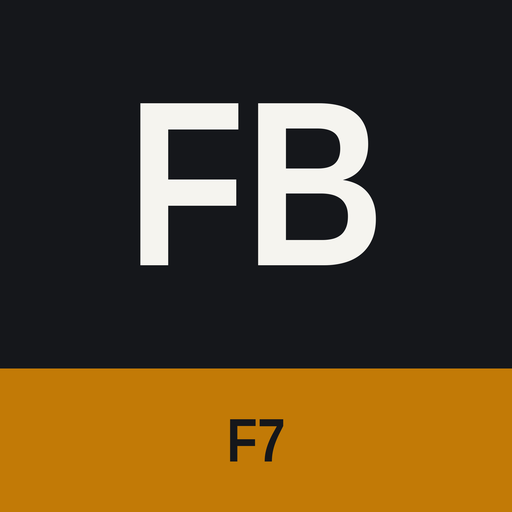
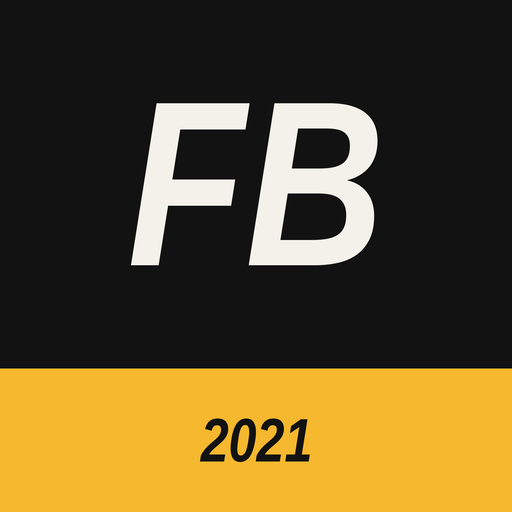
Colores oficiales: carbón, dorado cerveza y naranja fuego; titulares en cursiva
Claude-Session: https://claude.ai/code/session_01MiMiU7EyNSUYJ8L8G9NTuj

diff --git a/index.html b/index.html
@@ -8,19 +8,19 @@
 <link rel="icon" href="icon-192.png" type="image/png">
 <link rel="apple-touch-icon" href="apple-touch-icon.png">
 <link rel="manifest" href="manifest.webmanifest">
-<meta name="theme-color" content="#15171b">
+<meta name="theme-color" content="#121212">
 <meta name="apple-mobile-web-app-capable" content="yes">
 <meta name="mobile-web-app-capable" content="yes">
 <meta name="apple-mobile-web-app-title" content="Fulhambeer">
 <meta name="apple-mobile-web-app-status-bar-style" content="black">
 <link rel="preconnect" href="https://fonts.googleapis.com">
 <link rel="preconnect" href="https://fonts.gstatic.com" crossorigin>
-<link href="https://fonts.googleapis.com/css2?family=Barlow+Condensed:wght@500;600;700;800&family=Barlow:wght@400;500;600&display=swap" rel="stylesheet">
+<link href="https://fonts.googleapis.com/css2?family=Barlow+Condensed:ital,wght@0,500;0,600;0,700;0,800;1,700;1,800;1,900&family=Barlow:wght@400;500;600&display=swap" rel="stylesheet">
 <style>
 /* Matchday programme: scoreboard header, the next match first, dense tables below. Chalk paper, touchline ink, beer amber. */
 :root {
-  --paper: #f5f4ef; --card: #ffffff; --ink: #15171b; --ink-2: #555850; --ink-3: #8a8c84; --line: #e2e0d8;
-  --accent: #c27a06; --accent-soft: #fbf0da; --good: #1e7a3c; --good-soft: #e3f2e7; --bad: #b3372f; --bad-soft: #f8e4e1;
+  --paper: #f4f2ec; --card: #ffffff; --ink: #121212; --ink-2: #53504a; --ink-3: #8a867d; --line: #e3dfd4;
+  --accent: #c8860a; --accent-soft: #fcefd2; --gold: #f5b82e; --fire: #e8661c; --good: #1e7a3c; --good-soft: #e3f2e7; --bad: #b3372f; --bad-soft: #f8e4e1;
   --warn: #9a6a00; --bar: #2a78d6;
   --display: "Barlow Condensed", "Arial Narrow", "Roboto Condensed", system-ui, sans-serif;
   --body: "Barlow", system-ui, -apple-system, "Segoe UI", sans-serif;
@@ -28,8 +28,8 @@
 }
 @media (prefers-color-scheme: dark) {
   :root {
-    --paper: #121416; --card: #1b1e21; --ink: #f0efe9; --ink-2: #b9bab2; --ink-3: #85877f; --line: #2c3034;
-    --accent: #f0a42a; --accent-soft: #3a2c12; --good: #5cc27b; --good-soft: #17301f; --bad: #ef7a6f; --bad-soft: #3a1c19;
+    --paper: #0d0d0d; --card: #181818; --ink: #f3f1ea; --ink-2: #bdb8ad; --ink-3: #868176; --line: #2b2a27;
+    --accent: #f5b82e; --accent-soft: #3a2b0d; --good: #5cc27b; --good-soft: #17301f; --bad: #ef7a6f; --bad-soft: #3a1c19;
     --warn: #e0b44a; --bar: #3987e5; color-scheme: dark;
   }
 }
@@ -44,26 +44,26 @@ button, input, select, textarea { font: inherit; color: inherit; }
 section.view > *, .card > * { min-width: 0; }
 select { max-width: 100%; min-width: 0; }
 
-header.top { background: #15171b; color: #f5f4ef; }
+header.top { background: radial-gradient(120% 140% at 85% 0%, #3a1a06 0%, #121212 55%) #121212; color: #f3f1ea; border-bottom: 3px solid #f5b82e; }
 header.top .wrap { padding-top: 16px; padding-bottom: 0; display: grid; gap: 12px; }
 .brand { display: flex; align-items: flex-end; justify-content: space-between; gap: 12px; flex-wrap: wrap; }
-.brand h1 { font: 800 clamp(30px, 6vw, 44px)/0.95 var(--display); letter-spacing: 0.02em; margin: 0; text-transform: uppercase; }
-.brand h1 span { color: #f0a42a; }
+.brand h1 { font: italic 900 clamp(32px, 6.5vw, 48px)/0.95 var(--display); letter-spacing: 0.01em; margin: 0; text-transform: uppercase; }
+.brand h1 span { color: #f5b82e; text-shadow: 0 0 18px rgba(232,102,28,0.55); }
 .brand .comp { font: 600 13px/1.3 var(--display); letter-spacing: 0.08em; text-transform: uppercase; opacity: 0.75; }
 .me { display: flex; align-items: center; gap: 8px; font-size: 14px; }
 .me select { background: transparent; color: inherit; border: 1px solid rgba(255,255,255,0.3); border-radius: 999px; padding: 5px 10px; }
 .me select option { color: #15171b; }
 .scoreline { display: flex; gap: 8px; flex-wrap: wrap; }
 .sl { border: 1px solid rgba(255,255,255,0.2); border-radius: 6px; padding: 6px 10px; min-width: 70px; }
-.sl b { display: block; font: 700 21px/1 var(--display); }
+.sl b { display: block; font: italic 800 22px/1 var(--display); color: #f5b82e; }
 .sl small { font: 600 11px/1.2 var(--display); letter-spacing: 0.08em; text-transform: uppercase; opacity: 0.7; }
 nav.tabs { display: flex; gap: 2px; overflow-x: auto; scrollbar-width: none; }
 nav.tabs a { font: 700 15px/1 var(--display); letter-spacing: 0.06em; text-transform: uppercase; color: inherit; text-decoration: none; padding: 12px 12px 11px; border-bottom: 3px solid transparent; opacity: 0.7; white-space: nowrap; }
-nav.tabs a[aria-current="page"] { opacity: 1; border-color: #f0a42a; }
+nav.tabs a[aria-current="page"] { opacity: 1; border-color: #f5b82e; color: #f5b82e; }
 
 section.view { display: none; padding-top: 18px; }
 section.view.on { display: grid; gap: 16px; }
-h2 { font: 700 22px/1.1 var(--display); letter-spacing: 0.03em; text-transform: uppercase; margin: 0; text-wrap: balance; }
+h2 { font: italic 800 23px/1.1 var(--display); letter-spacing: 0.03em; text-transform: uppercase; margin: 0; text-wrap: balance; }
 h3 { font: 700 16px/1.2 var(--display); letter-spacing: 0.05em; text-transform: uppercase; margin: 0; color: var(--ink-2); }
 .card { background: var(--card); border: 1px solid var(--line); border-radius: 10px; padding: 16px; }
 .row { display: flex; gap: 10px; align-items: center; flex-wrap: wrap; }
@@ -74,17 +74,17 @@ h3 { font: 700 16px/1.2 var(--display); letter-spacing: 0.05em; text-transform: 
 .btn { border: 1px solid var(--line); background: var(--card); border-radius: 8px; padding: 8px 12px; cursor: pointer; font-weight: 600; display: inline-flex; gap: 6px; align-items: center; }
 .btn:hover { border-color: var(--ink-3); }
 a.btn { text-decoration: none; color: inherit; }
-.btn.primary { background: var(--ink); color: var(--paper); border-color: var(--ink); }
+.btn.primary { background: var(--accent); color: #121212; border-color: var(--accent); }
 .btn.sm { padding: 4px 9px; font-size: 13px; font-weight: 500; }
 .btn:disabled { opacity: 0.45; cursor: not-allowed; }
 select, input[type="text"], input[type="number"], input[type="date"], input[type="time"], input[type="password"], textarea { border: 1px solid var(--line); background: var(--card); border-radius: 8px; padding: 7px 10px; }
 textarea { width: 100%; min-height: 200px; font: 13px/1.4 ui-monospace, Menlo, monospace; }
 
 .fixture { display: grid; grid-template-columns: 1fr auto 1fr; align-items: center; gap: 12px; }
-.team { overflow-wrap: anywhere; font: 800 clamp(20px, 4.5vw, 30px)/1 var(--display); text-transform: uppercase; letter-spacing: 0.02em; }
+.team { overflow-wrap: anywhere; font: italic 900 clamp(21px, 4.8vw, 32px)/1 var(--display); text-transform: uppercase; letter-spacing: 0.02em; }
 .team.us { color: var(--accent); }
 .team.right { text-align: right; }
-.score { font: 800 clamp(28px, 7vw, 44px)/1 var(--display); text-align: center; min-width: 96px; }
+.score { font: italic 900 clamp(30px, 7.5vw, 48px)/1 var(--display); text-align: center; min-width: 96px; }
 .score small { display: block; font: 600 12px/1.3 var(--display); letter-spacing: 0.08em; color: var(--ink-3); text-transform: uppercase; }
 .meta { display: flex; gap: 6px 16px; flex-wrap: wrap; font-size: 14px; color: var(--ink-2); }
 .meta b { color: var(--ink); font-weight: 600; }
